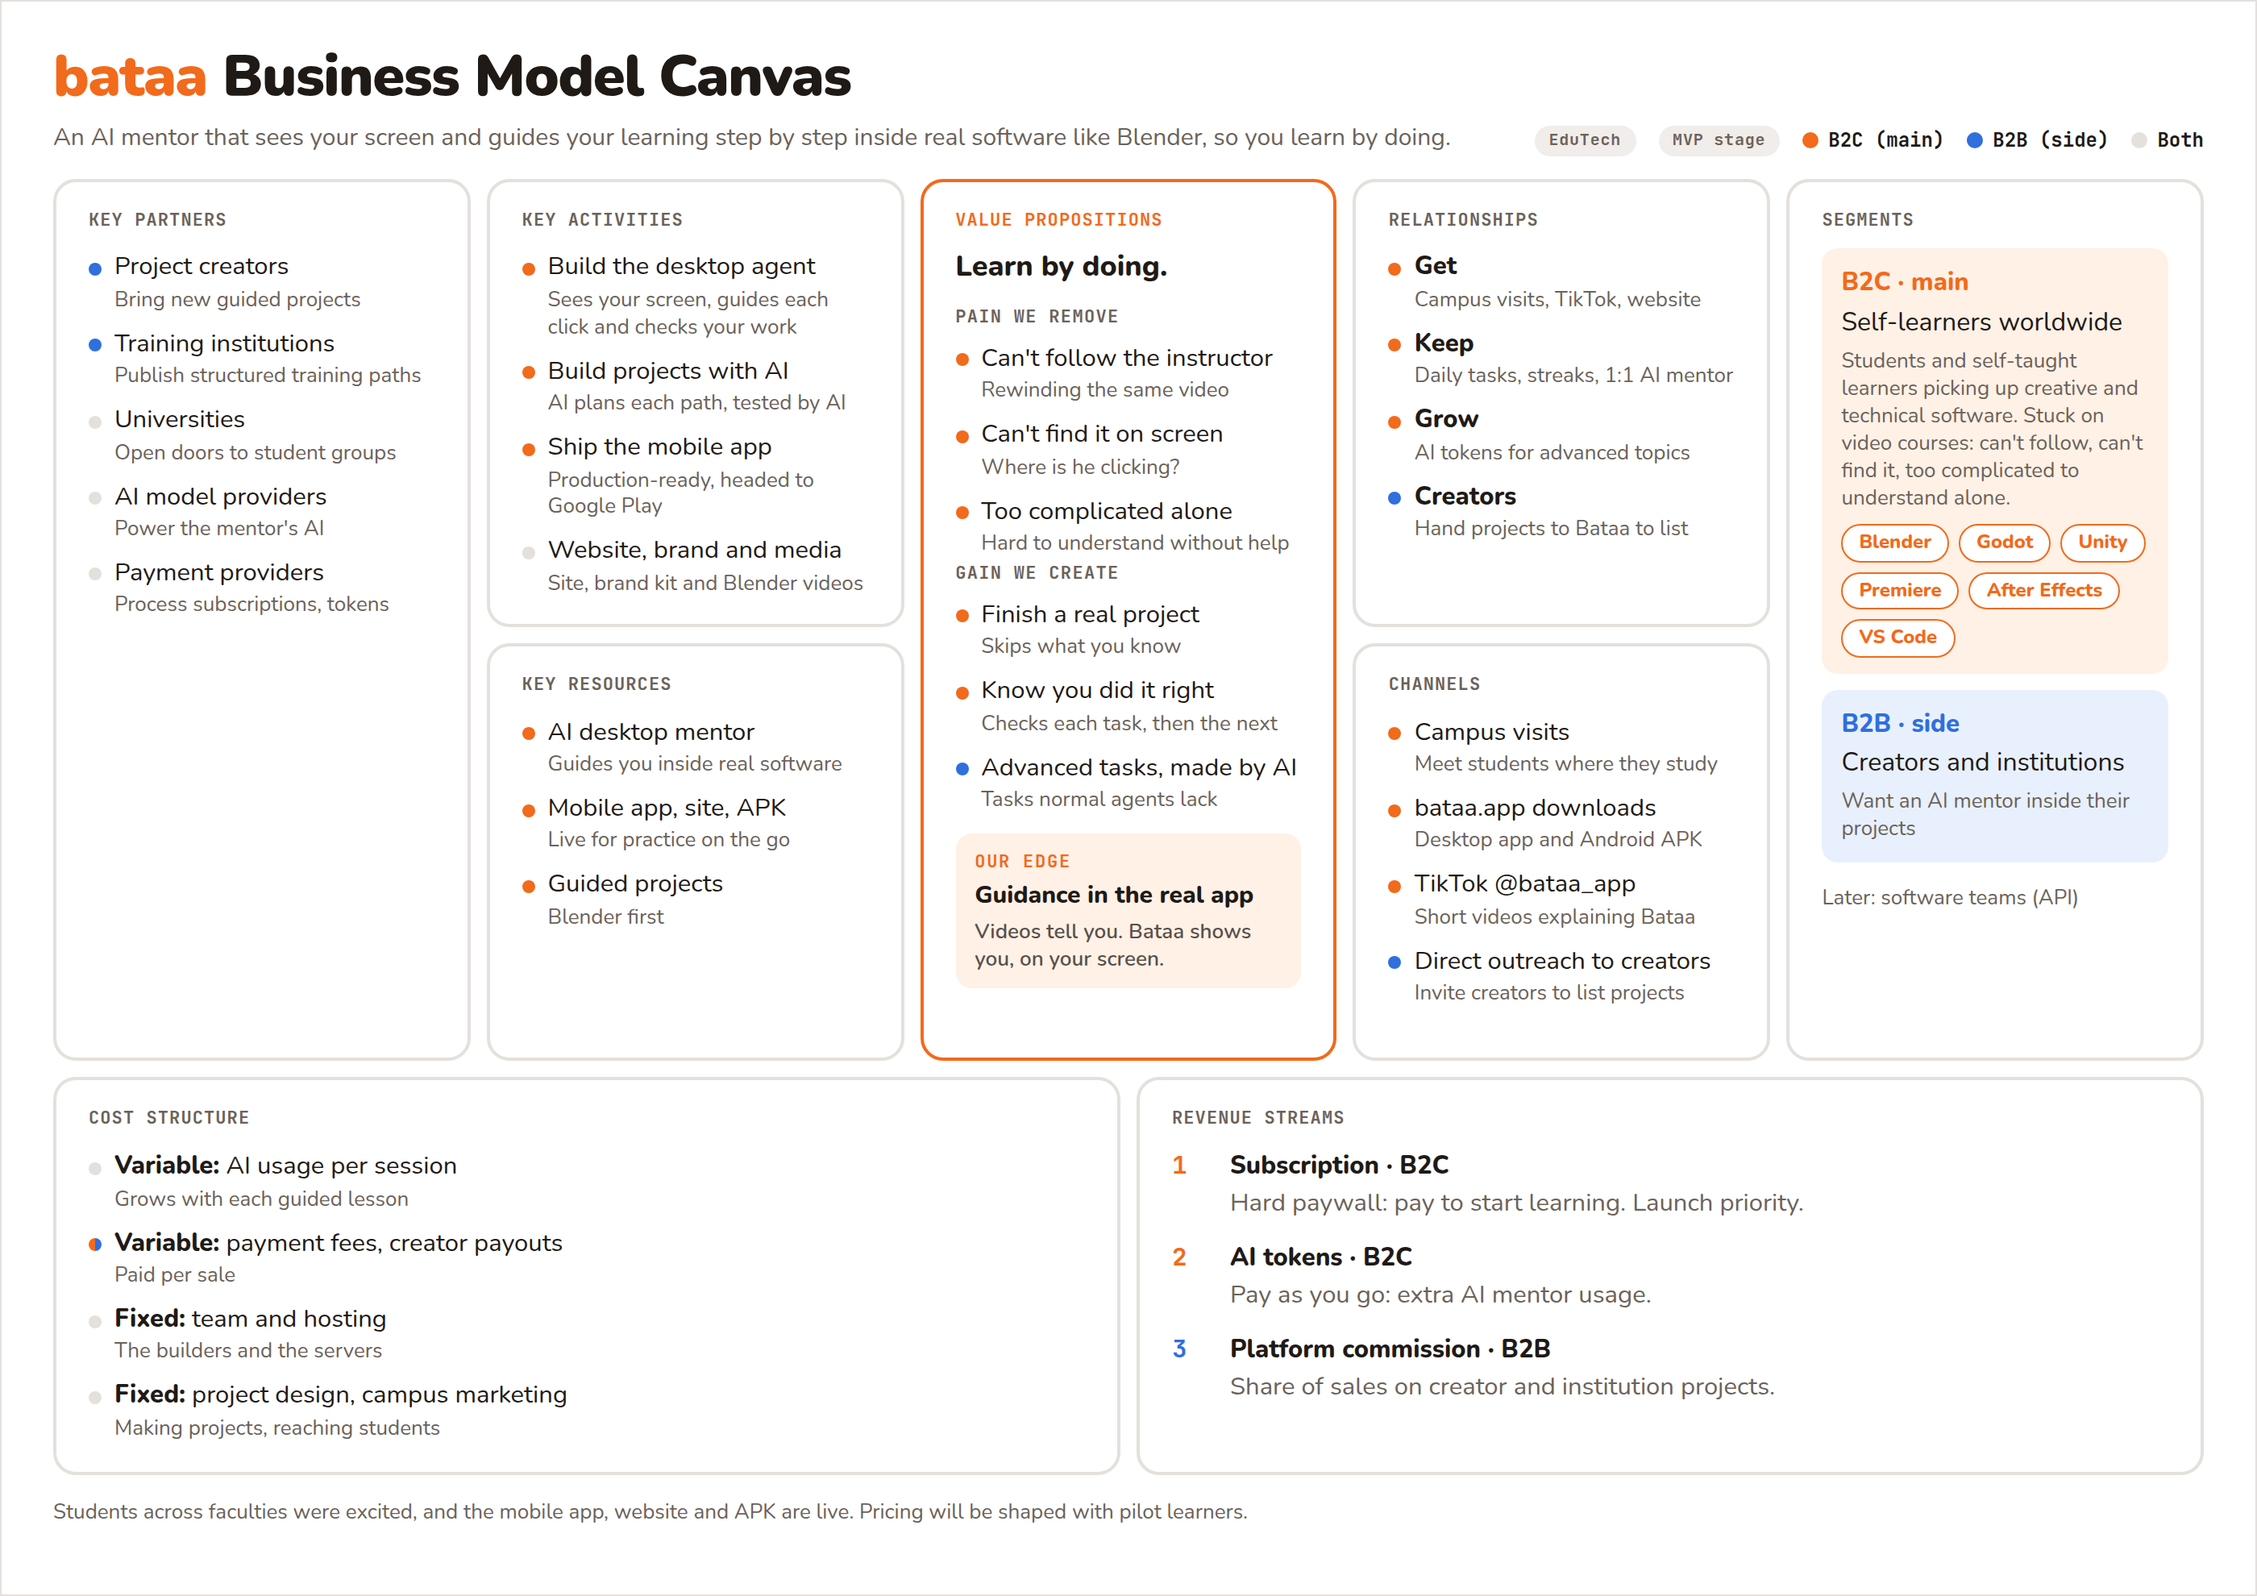
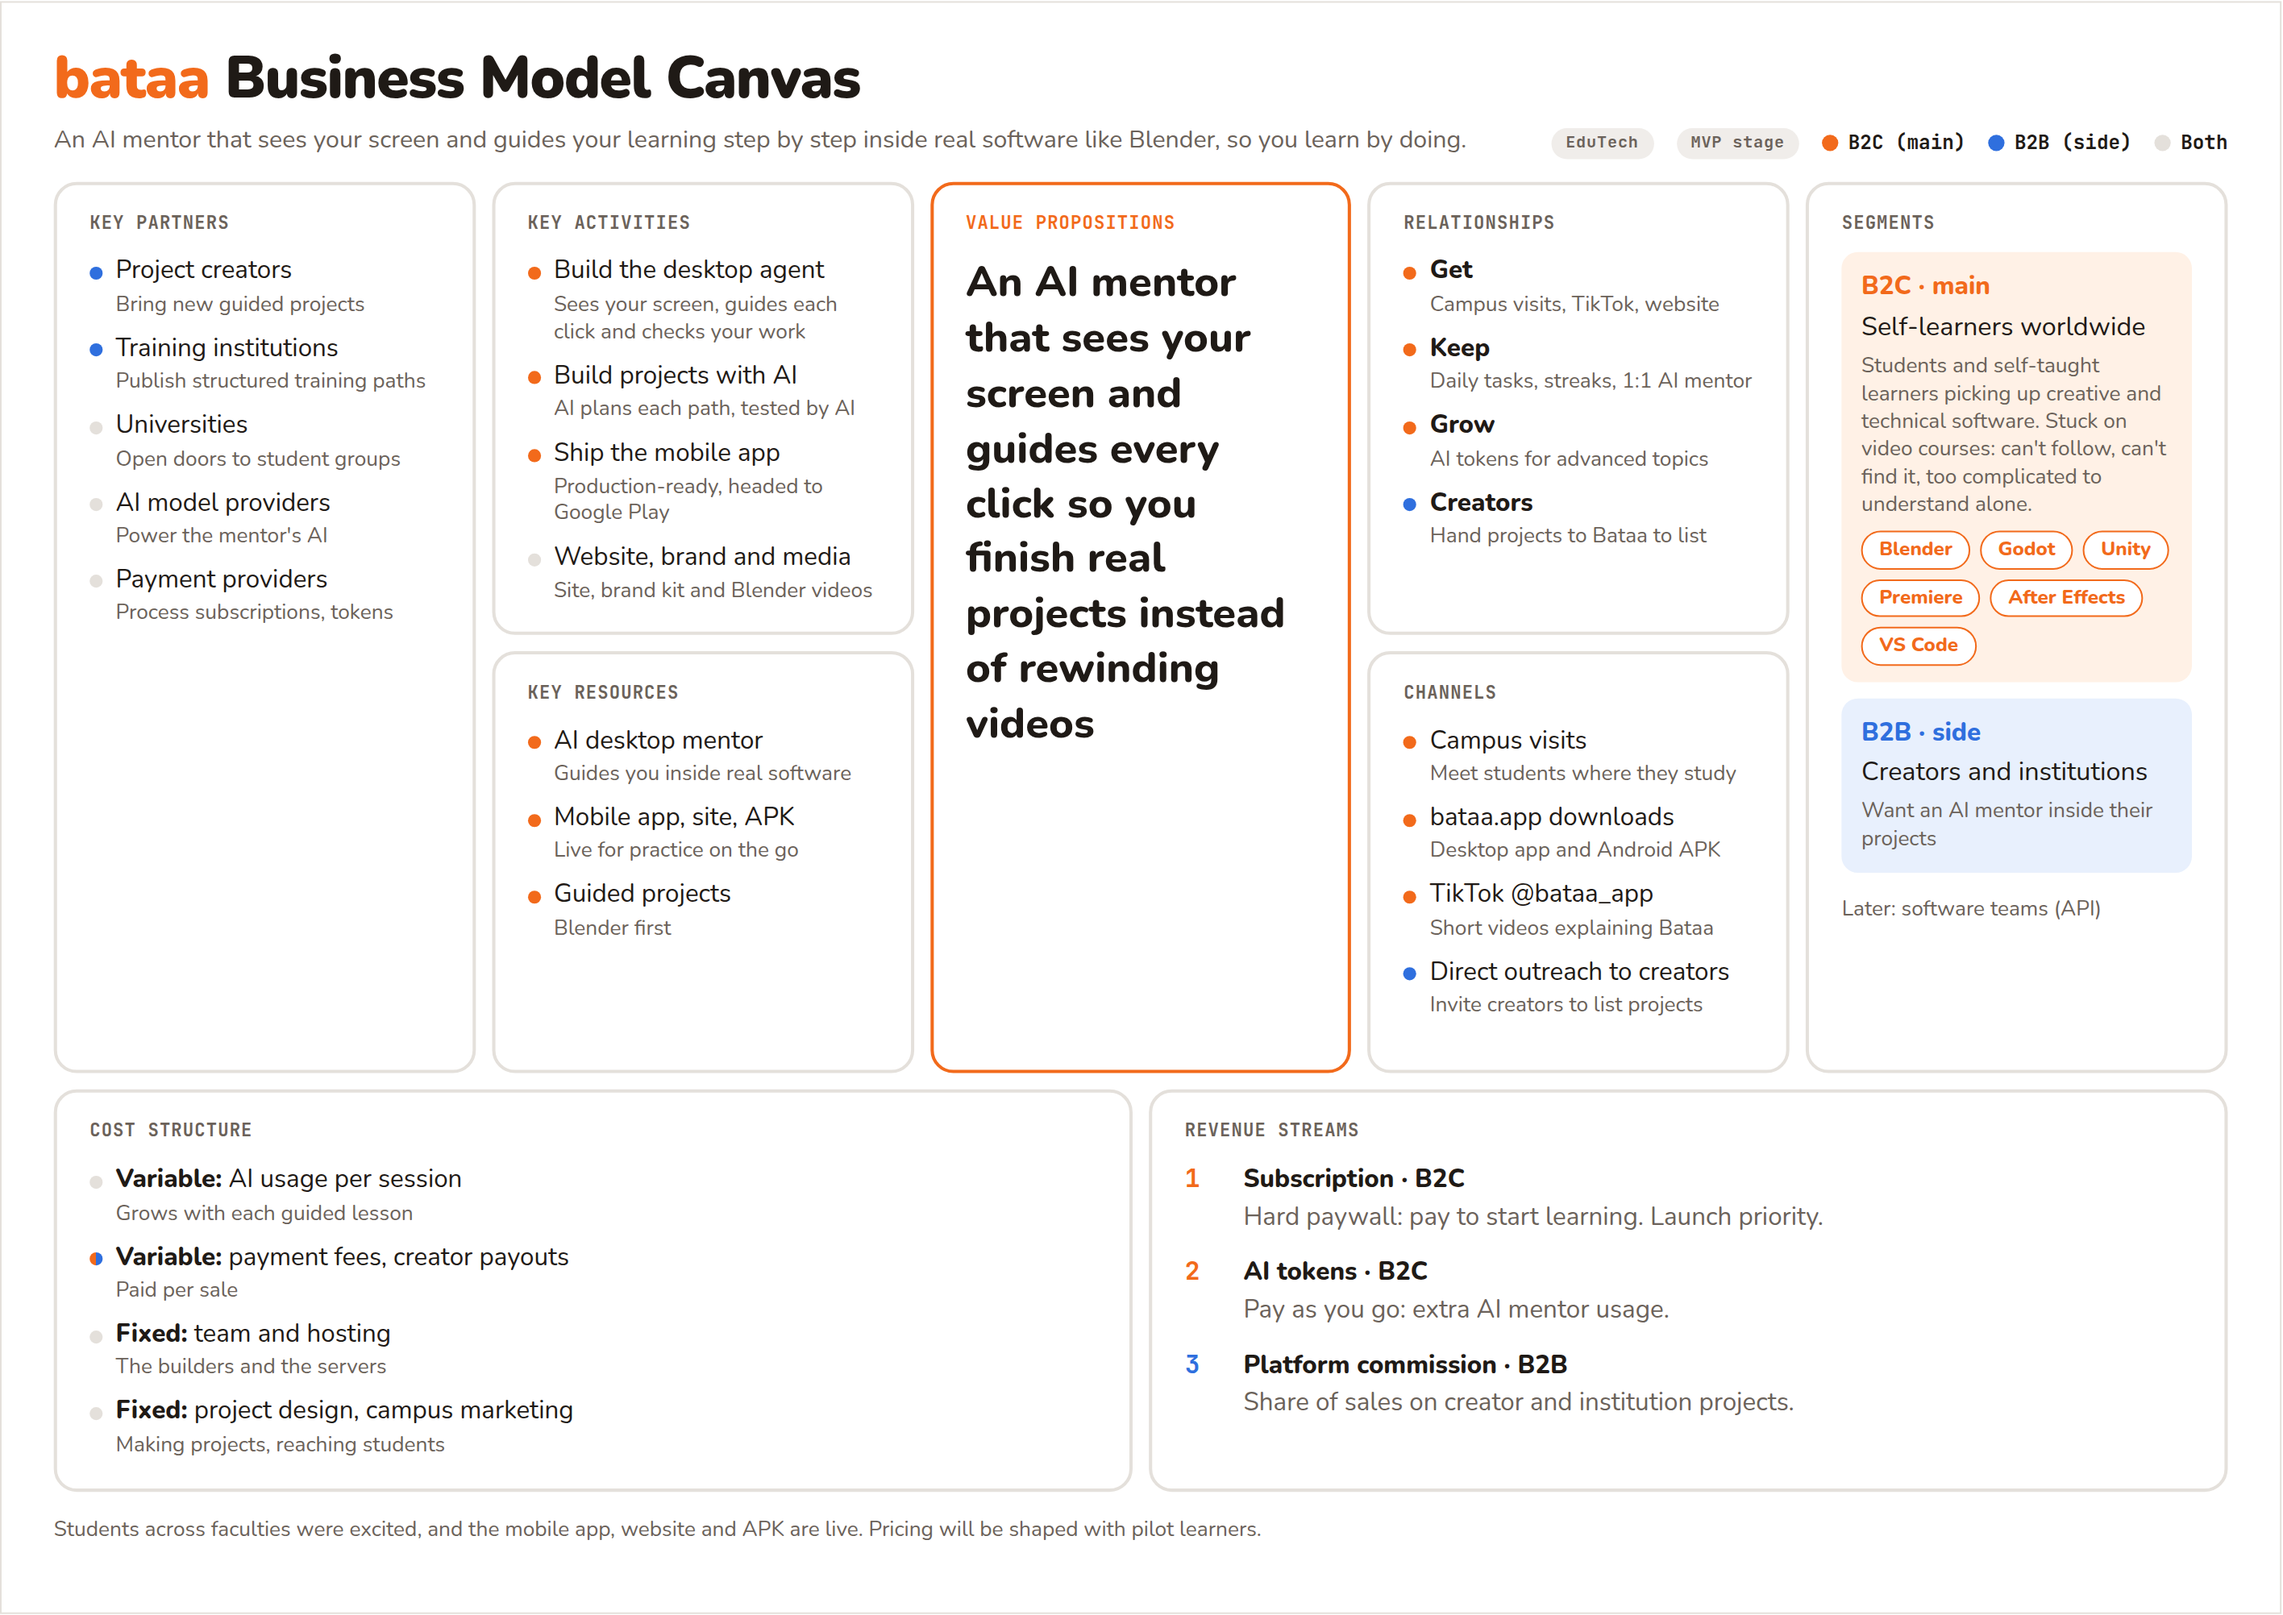
feat: shorten BMC value proposition to one sentence

diff --git a/public/bmc.html b/public/bmc.html
@@ -72,6 +72,7 @@ li small{display:inline;color:var(--muted);font-size:13px}
 
 
 
+.vp{font-size:26px;font-weight:800;line-height:1.3;margin:12px 0 0;text-wrap:balance}
 </style>
 
 <style>body{margin:0}
@@ -165,20 +166,7 @@ body{padding:0!important;margin:0;background:#fff}
 
     <section class="box value">
       <h2>Value propositions</h2>
-      <p class="lead">Learn by doing.</p>
-      <div class="sub2">Pain we remove</div>
-      <ul>
-        <li>Can't follow the instructor<span class="d">Rewinding the same video</span></li>
-        <li>Can't find it on screen<span class="d">Where is he clicking?</span></li>
-        <li>Too complicated alone<span class="d">Hard to understand without help</span></li>
-      </ul>
-      <div class="sub2">Gain we create</div>
-      <ul>
-        <li>Finish a real project<span class="d">Skips what you know</span></li>
-        <li>Know you did it right<span class="d">Checks each task, then the next</span></li>
-        <li class="b2b">Advanced tasks, made by AI<span class="d">Tasks normal agents lack</span></li>
-      </ul>
-      <div class="edge"><span>Our edge</span>Guidance in the real app<span class="d">Videos tell you. Bataa shows you, on your screen.</span></div>
+      <p class="vp">An AI mentor that sees your screen and guides every click so you finish real projects instead of rewinding videos</p>
     </section>
 
     <section class="box relations">
